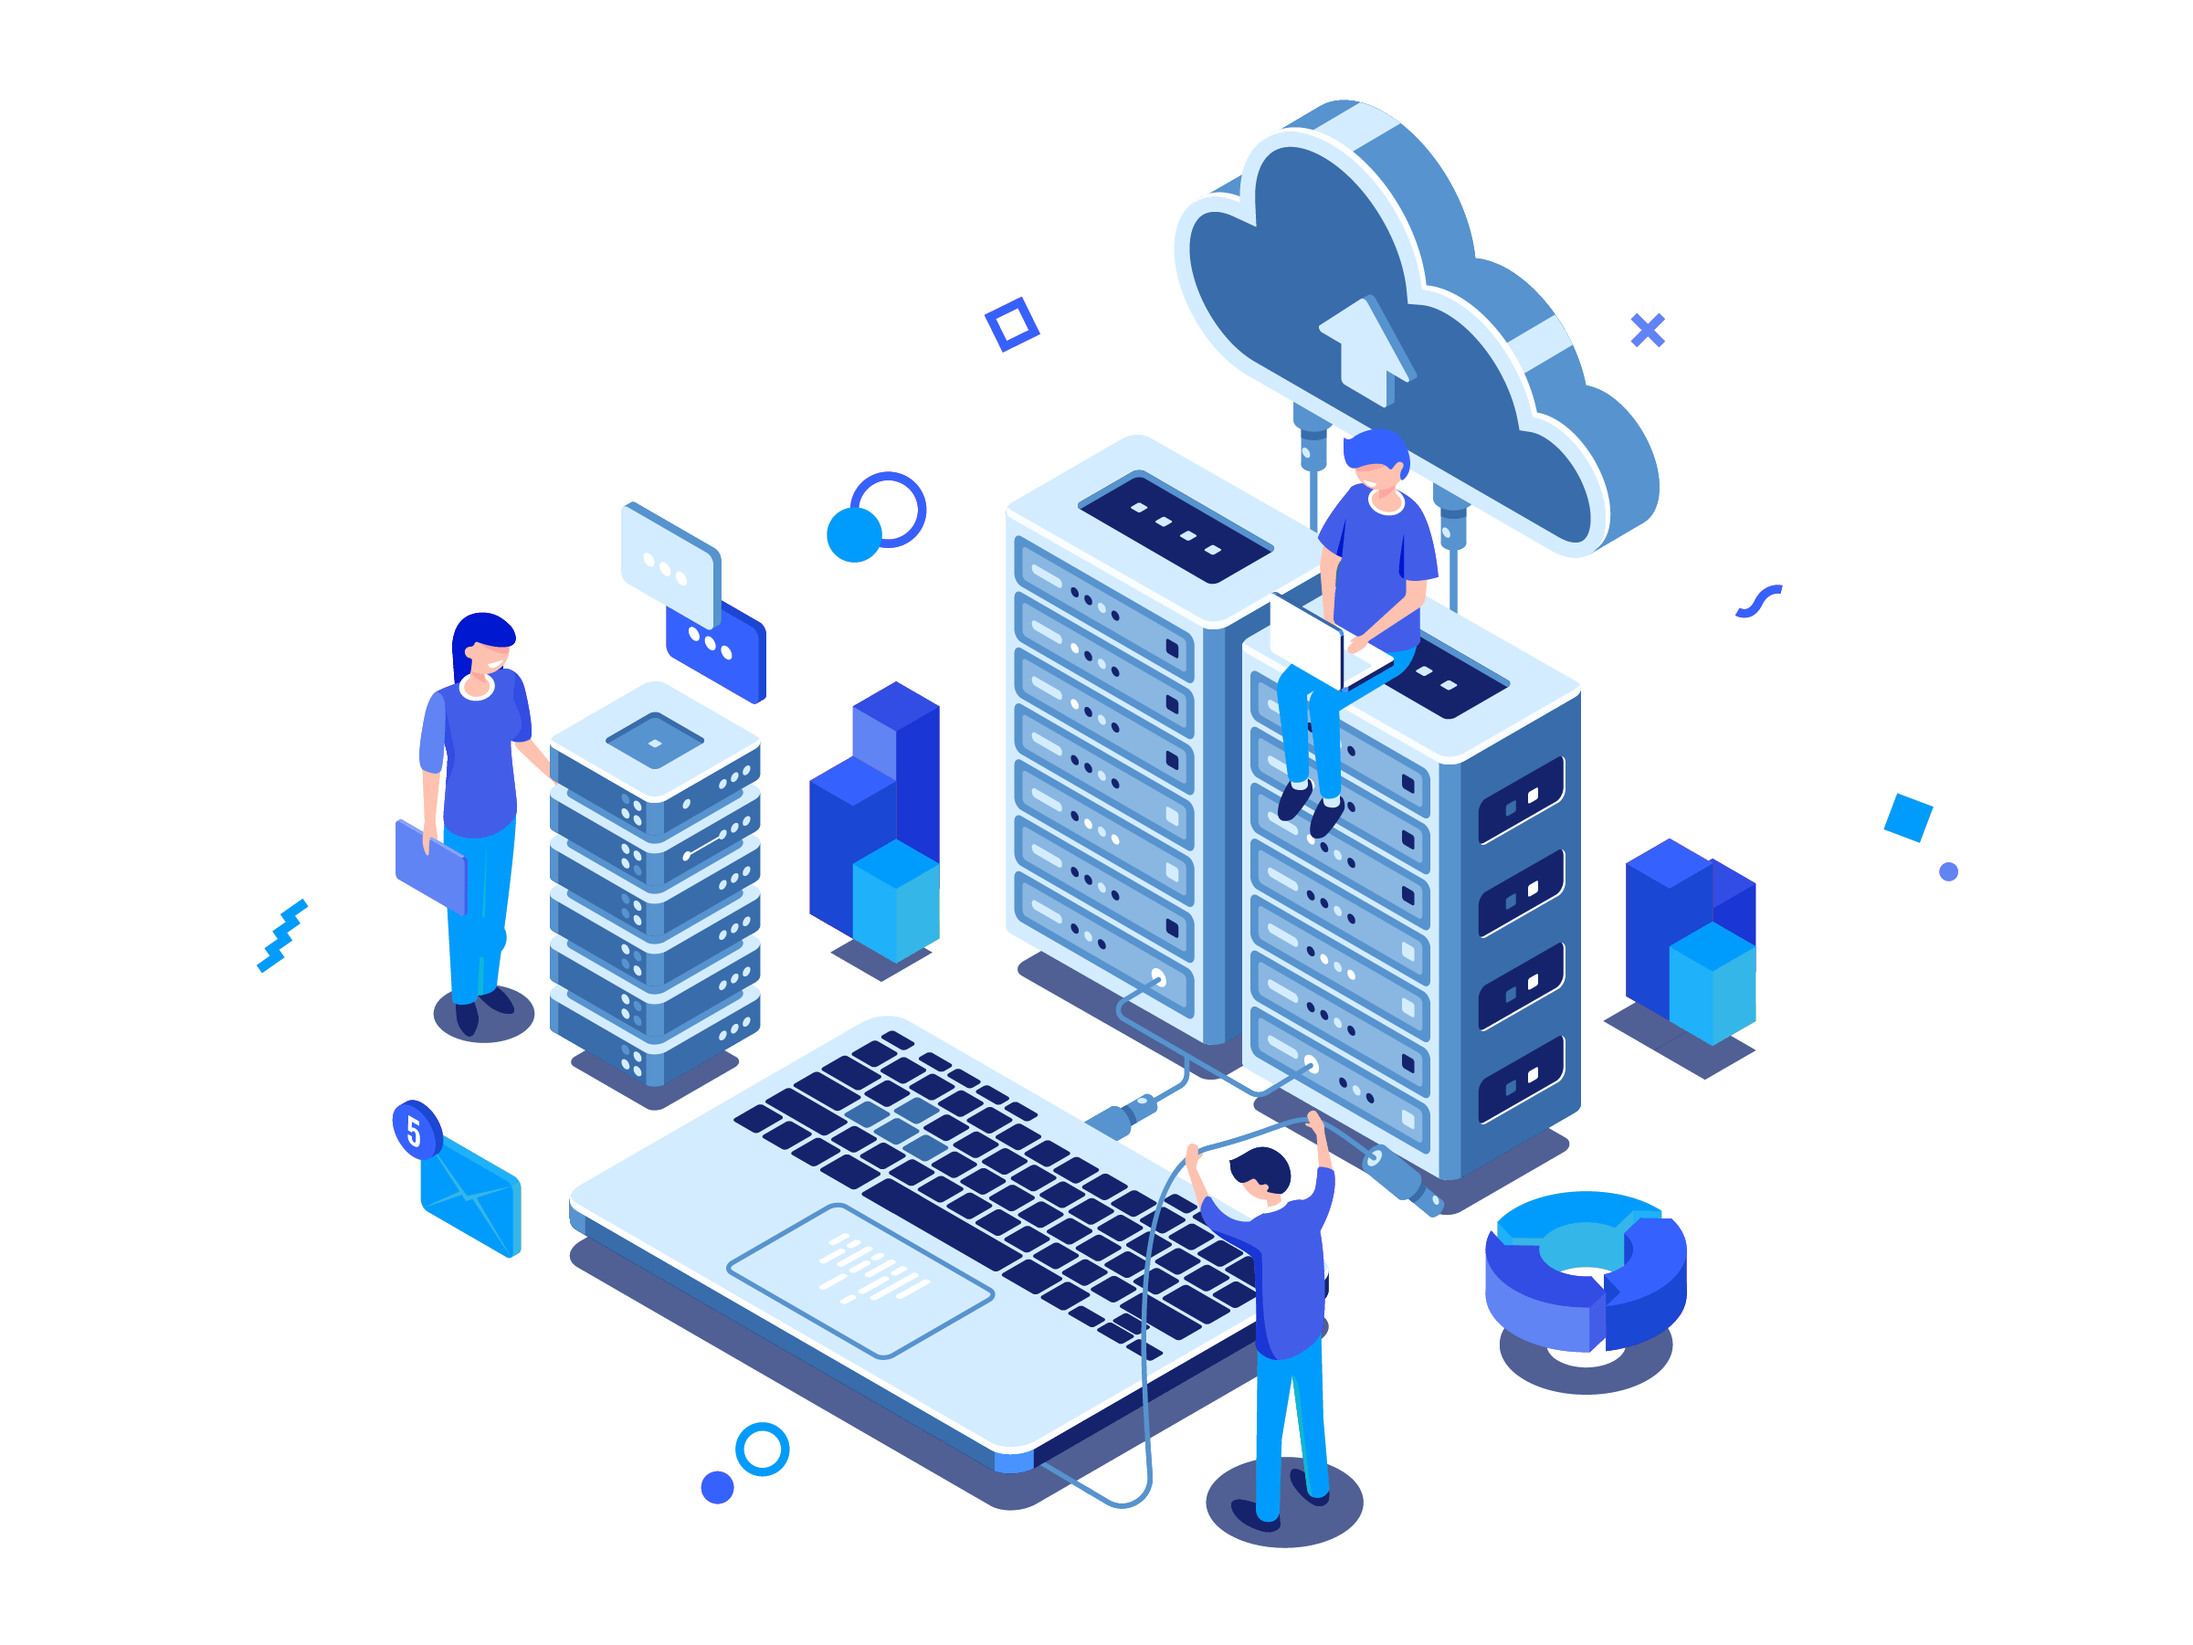
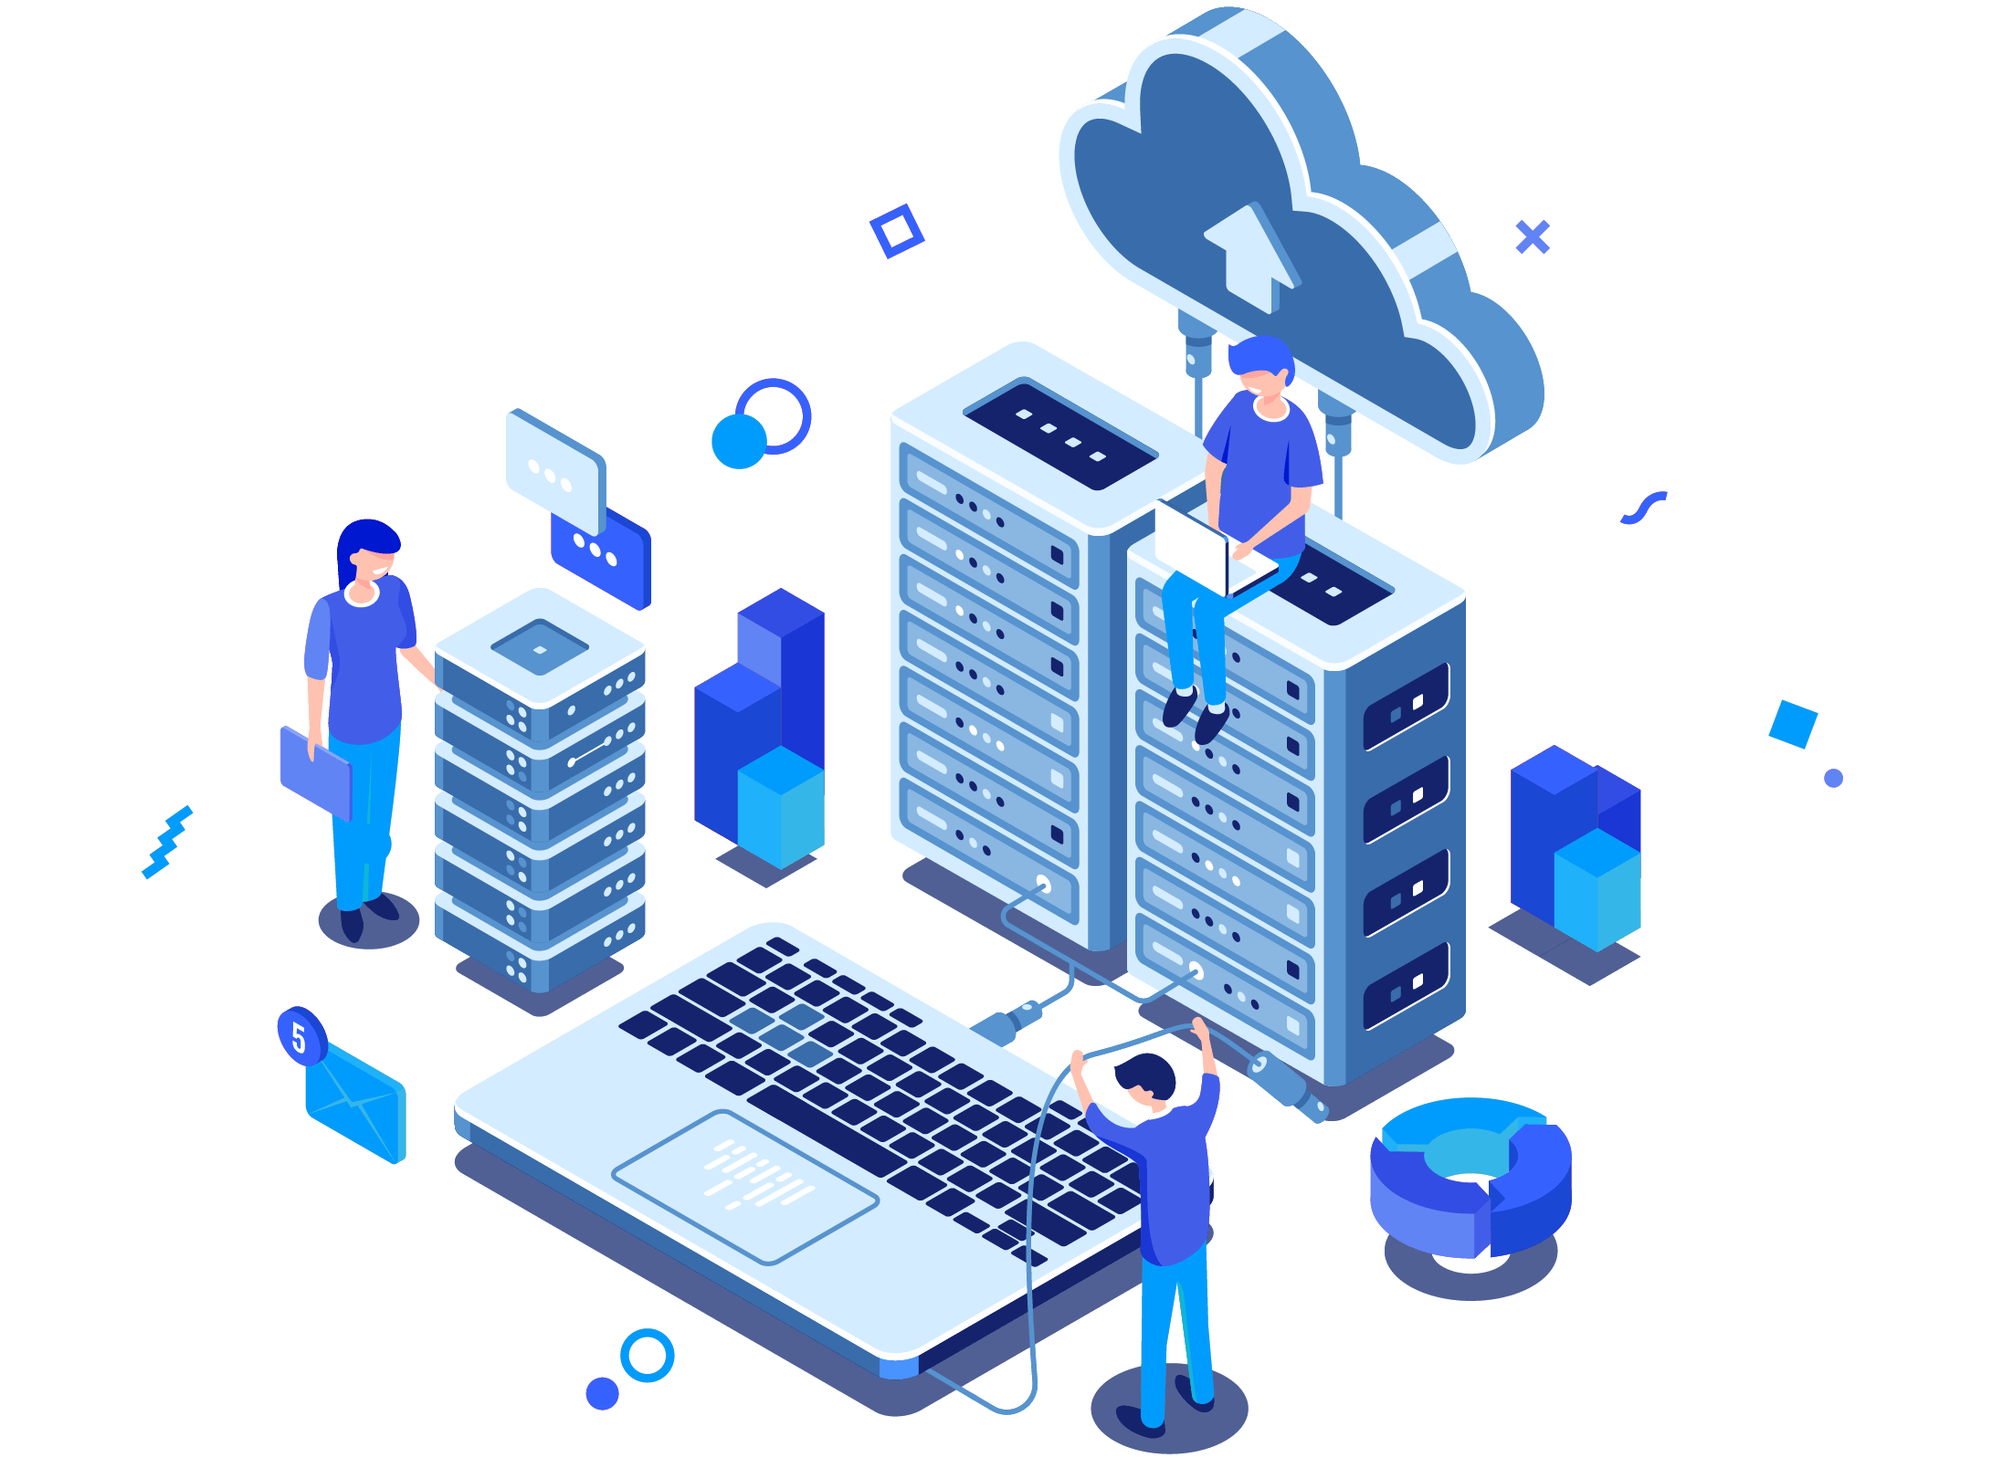
chore: uptaded Home.ts styles and changed isometric image

diff --git a/src/styles/pages/Home.ts b/src/styles/pages/Home.ts
@@ -8,13 +8,17 @@ export const Container = styled.div`
   align-items: center;
   main {
     width: min(90vw, 500px);
+    display: flex;
+    justify-content: center;
+
     > section {
-      width: 100%;
+      max-width: 27.2rem;
       height: 100%;
       display: flex;
       flex-direction: column;
       justify-content: center;
-      align-items: center;
+      align-items: flex-start;
+
       h1 {
         font-size: 6.4rem;
         color: ${props => props.theme.colors.secundary};
@@ -22,18 +26,18 @@ export const Container = styled.div`
       h4 {
         font-size: 1.6rem;
         color: ${props => props.theme.colors.primary};
-        margin-top: 0.8rem;
+        margin-top: 0.2rem;
       }
 
       p {
-        margin-top: 0.8rem;
+        margin-top: 0.4rem;
         margin-bottom: 3.2rem;
         font-size: 1.2rem;
-        line-height: 32px;
         color: ${props => props.theme.colors.text};
       }
 
       > img {
+        align-self: center;
         width: 60%;
         margin-top: 6.4rem;
       }
@@ -41,13 +45,33 @@ export const Container = styled.div`
     > img {
       display: none;
     }
+
     @media (min-width: ${props => props.theme.breakpoints.md}px) {
-      width: min(90vw, 1100px);
+      width: min(90vw, 1000px);
       display: flex;
+      justify-content: space-between;
+
+      > section{
+        align-items: flex-start;
+        max-width: 41.6rem;
+
+        h1{
+           font-size: 9.6rem;
+        }
+
+        h4{
+          font-size: 2.4rem;
+        }
+
+        > img{
+          margin-top: 11.2rem;
+        }
+      }
 
       > img {
+        align-self: flex-start;
         display: initial;
-        max-height: 80rem;
+        max-width: 60rem;
       }
     }
   }
